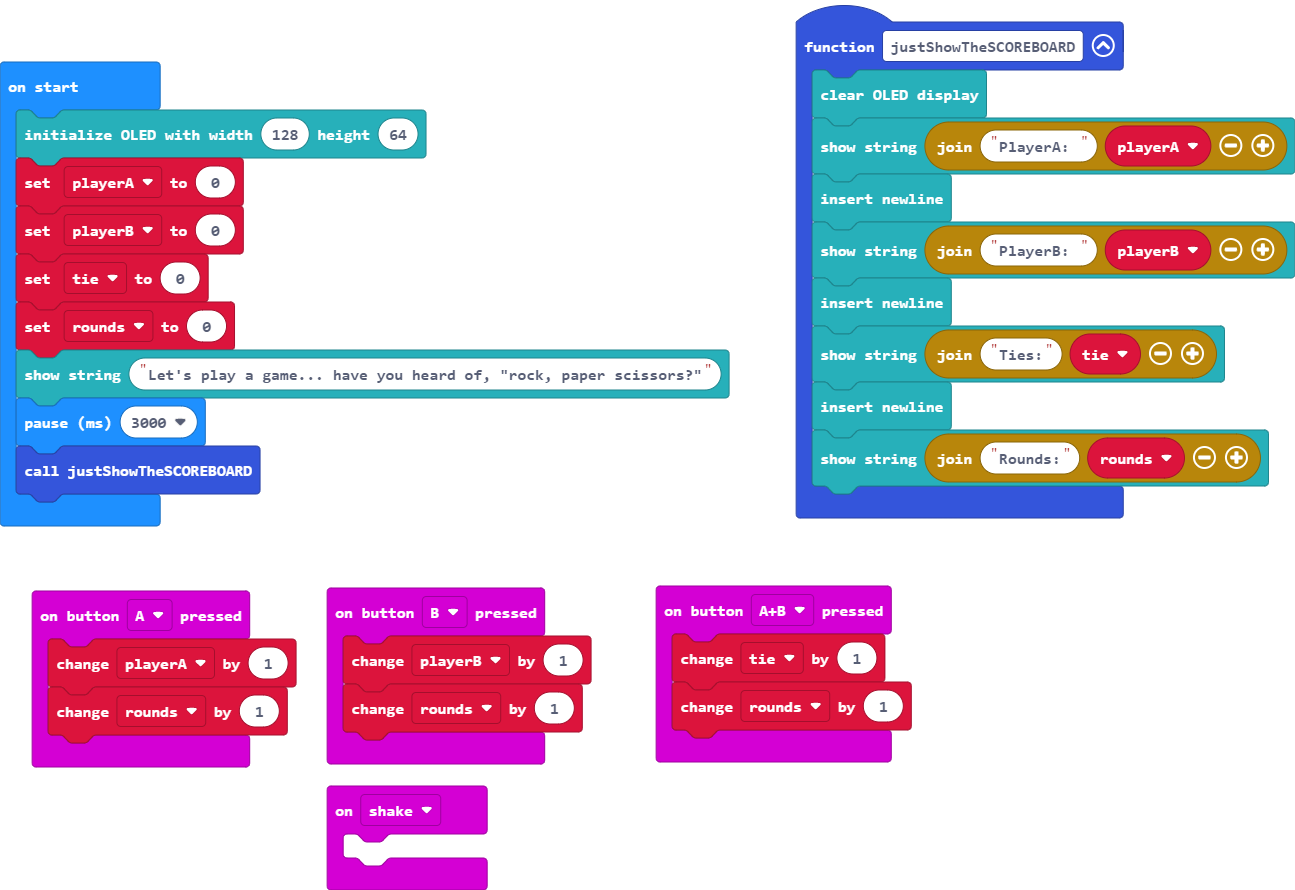
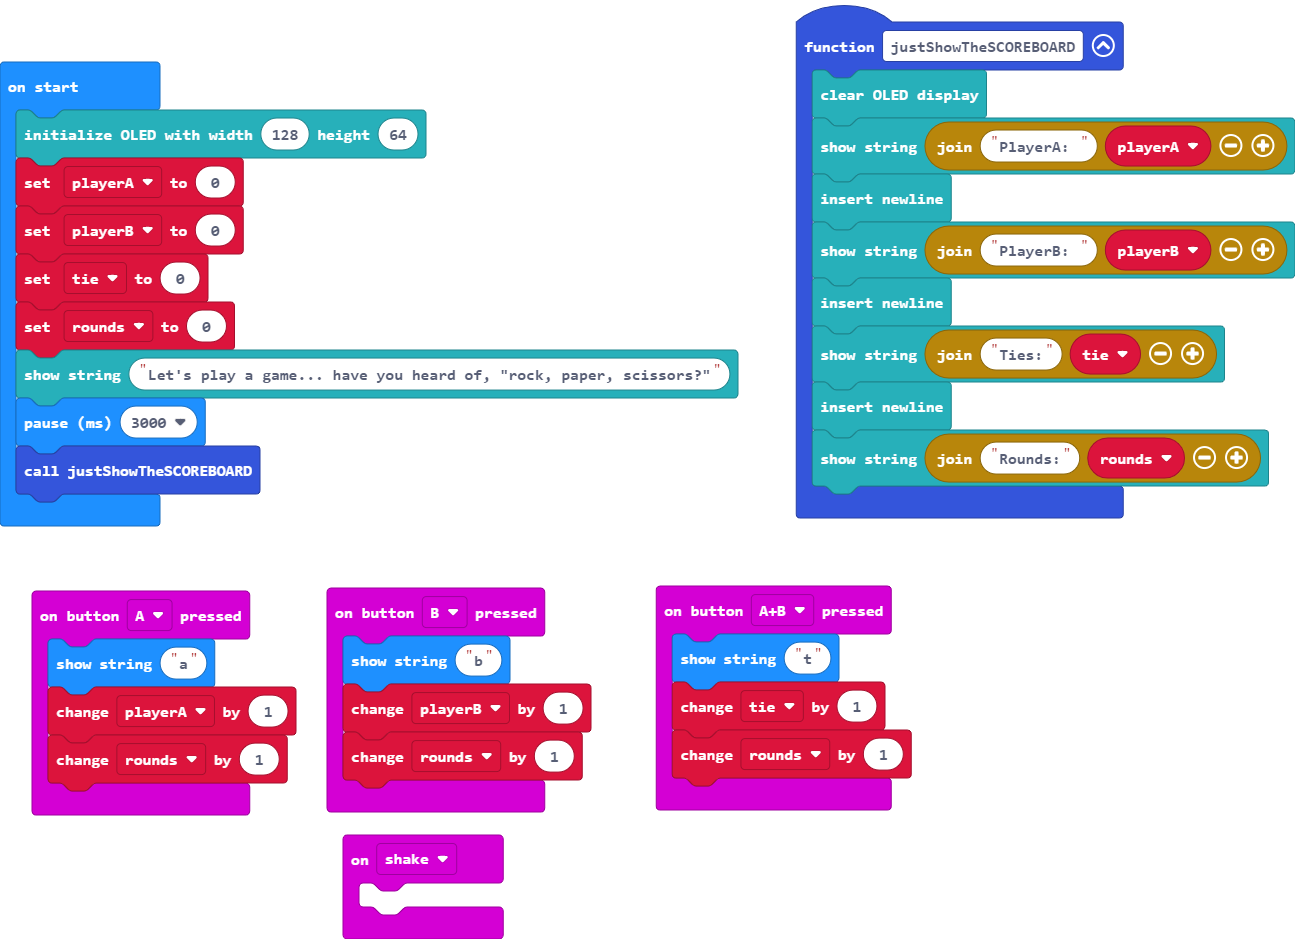
Update main.blocks, main.ts

Changed region(s): [[0.0, 0.0607, 0.5869, 1.0], [0.4942, 0.0, 1.0, 0.8798]]

diff --git a/main.ts b/main.ts
@@ -1,12 +1,15 @@
 input.onButtonPressed(Button.A, function () {
+    basic.showString("a")
     playerA += 1
     rounds += 1
 })
 input.onButtonPressed(Button.AB, function () {
+    basic.showString("t")
     tie += 1
     rounds += 1
 })
 input.onButtonPressed(Button.B, function () {
+    basic.showString("b")
     playerB += 1
     rounds += 1
 })
@@ -32,6 +35,6 @@ playerA = 0
 playerB = 0
 tie = 0
 rounds = 0
-OLED.writeStringNewLine("Let's play a game... have you heard of, \"rock, paper scissors?\"")
+OLED.writeStringNewLine("Let's play a game... have you heard of, \"rock, paper, scissors?\"")
 basic.pause(3000)
 justShowTheSCOREBOARD()
